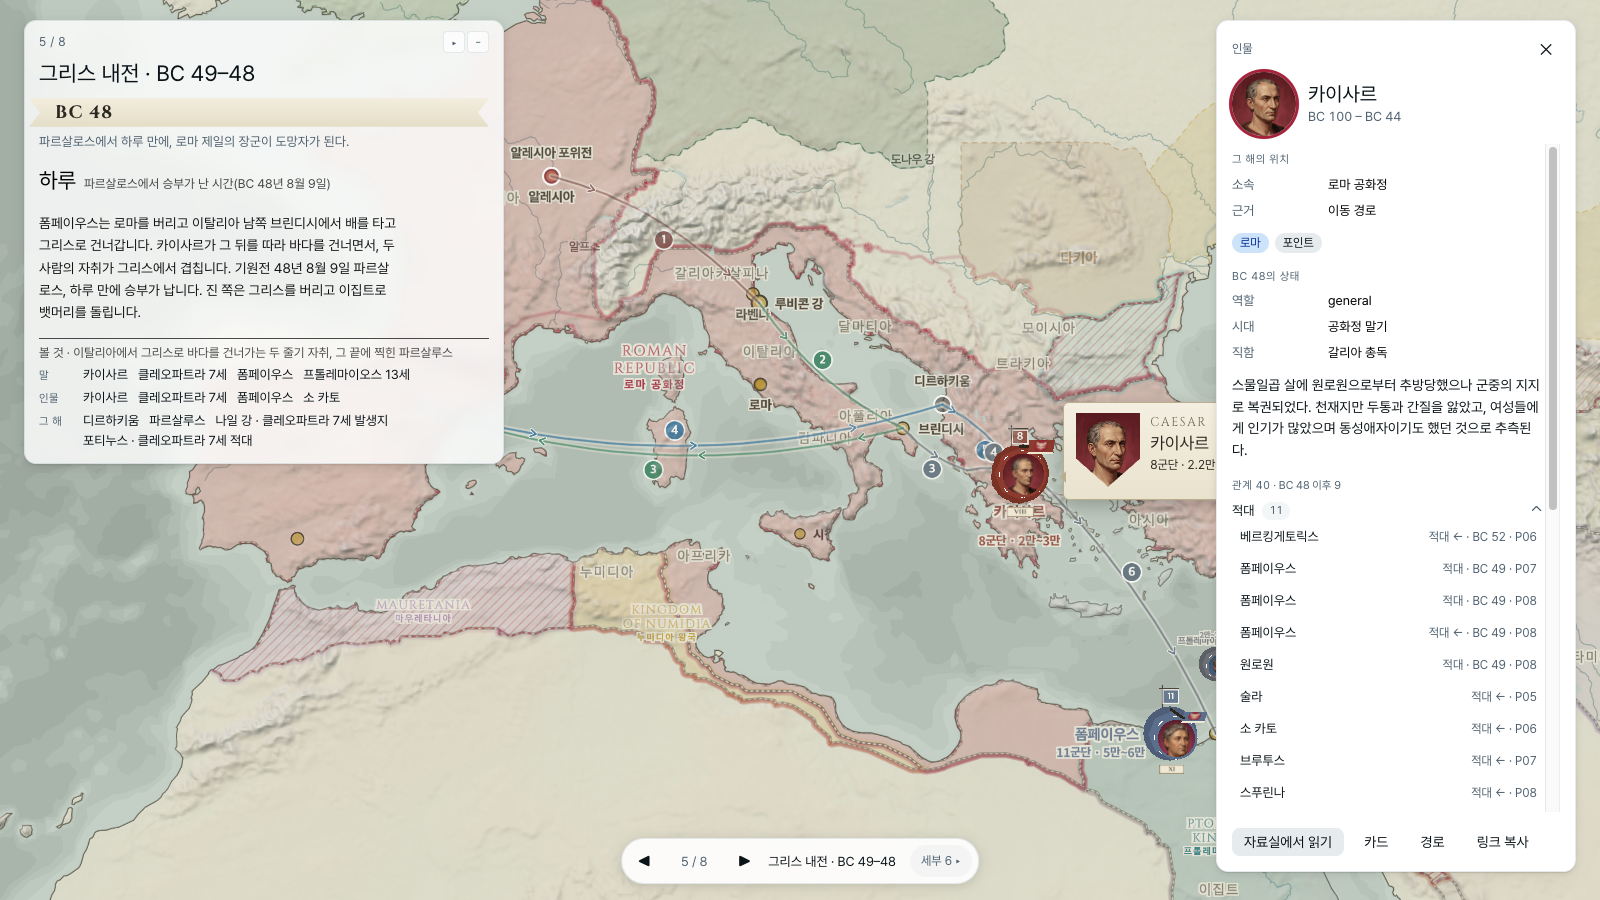
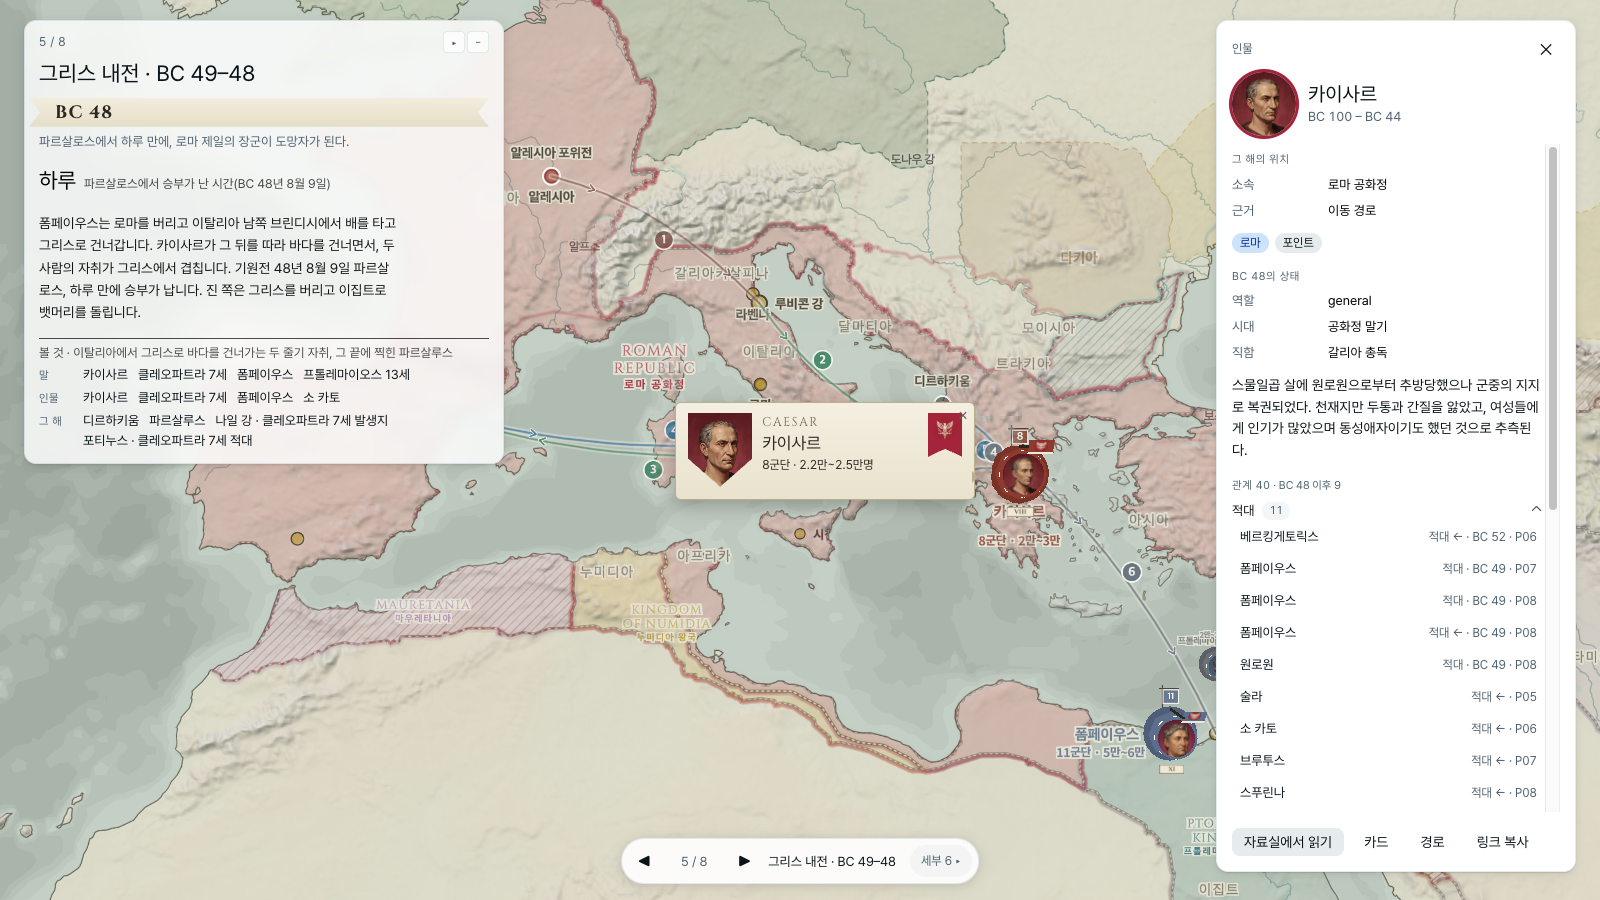
fix(배너 카드): 인스펙터가 오른쪽에 있으면 말 왼쪽으로 · docs: R51·§E 닫힘, 슬라이스 II 실행 기록

Changed region(s): [[0.4062, 0.4356, 0.625, 0.56], [0.6562, 0.4356, 0.7812, 0.56]]

diff --git a/src/app/BannerCard.tsx b/src/app/BannerCard.tsx
@@ -14,9 +14,12 @@ export function BannerCard({ map, at, name, latin, color, portrait, emblem, legi
     return () => { map.off('move', sync); map.off('resize', sync); };
   }, [map, at[0], at[1]]);
   if (!xy) return null;
+  // 오른쪽에 인스펙터(.shell-right)가 서 있으면 카드를 말 왼쪽에 둔다. 그리스 장면에서 카이사르 카드가 패널 밑에 깔렸다(2026-09-17)
+  const rightEdge = (() => { const el = document.querySelector('.shell-right') as HTMLElement | null; return el && el.offsetParent ? el.getBoundingClientRect().left : innerWidth; })();
+  const flip = xy.x + 44 + 300 > rightEdge - 8;
   const men = legion?.men_low != null ? `${fmt(legion.men_low)}${legion.men_high != null && legion.men_high !== legion.men_low ? `~${fmt(legion.men_high)}` : ''}명` : null;
   return (
-    <div className="banner-card" style={{ left: xy.x + 44, top: xy.y - 72, ['--faction' as string]: color }} role="dialog" aria-label={`${name} 배너`}>
+    <div className={`banner-card${flip ? ' is-left' : ''}`} style={{ left: flip ? xy.x - 44 - 300 : xy.x + 44, top: xy.y - 72, ['--faction' as string]: color }} role="dialog" aria-label={`${name} 배너`}>
       <div className="bc-shield">{portrait ? <img src={portrait} alt="" /> : <span />}</div>
       <div className="bc-plate">
         {latin && <div className="bc-latin">{latin}</div>}

diff --git a/src/app/shell.css b/src/app/shell.css
@@ -456,6 +456,7 @@ html[data-skin="campaign"] .shell-present-hud .ph-y, html[data-skin="oldmap"] .s
 .banner-card { position: absolute; z-index: 5; display: grid; grid-template-columns: 64px 1fr 34px; gap: 10px; align-items: start; width: 300px; padding: 10px 12px 12px;
   background: linear-gradient(#F4EFE1, #E9E2CD); border: 1px solid #B9AE8E; border-radius: 6px; box-shadow: 0 6px 18px rgb(0 0 0 / 0.22); pointer-events: auto; }
 .banner-card::before { content: ''; position: absolute; left: -10px; top: 68px; border: 6px solid transparent; border-right-color: #B9AE8E; }
+.banner-card.is-left::before { left: auto; right: -10px; border-right-color: transparent; border-left-color: #B9AE8E; }
 .bc-shield { width: 64px; height: 74px; background: var(--faction); clip-path: polygon(0 0, 100% 0, 100% 62%, 50% 100%, 0 62%); overflow: hidden; box-shadow: inset 0 0 0 3px rgb(255 255 255 / 0.55); }
 .bc-shield img { width: 100%; height: 100%; object-fit: cover; }
 .bc-plate { min-width: 0; display: grid; gap: 3px; }

diff --git a/docs/BACKLOG.md b/docs/BACKLOG.md
@@ -125,7 +125,7 @@ R39 목각은 볼트 3.7 조율, R41은 릴 스크린샷.
 | R48 | 입체 보기가 라이브에서 선다: DEM 두 층(ETOPO 2022 대륙 z0~8 · Copernicus GLO-30 인셋 z8~12)을 레포에 커밋 | ● | I. **2026-09-17 닫힘.** `scripts/bake-dem.py`(numpy+tifffile, 2 m 양자화·바다 0) 대륙 4,780장 144 MB + 인셋 일곱 35 MB, `test/terrain.test.ts` 상한 200 MB. 캡처 `docs/verify/overhaul/dem-alps-z6.png`. 크레딧 `public/assets/CREDITS.md` |
 | R49 | 대표님 녹취(PACK-CAESAR §14)에서 아직 없던 장면 둘: 「왜 제국인가: 평야」 · 「카르하이 BC 53」 | ● | I. **2026-09-17 닫힘.** `plains-empire`(로마의 확장 맨 앞, 곡창 7·척박 3 면이 z4.6에 뜬다. 평야 오버레이 유효기간을 전 기간으로 넓혀야 했다) · `carrhae-53`(선례, 카르라이 점 + 크라수스 말 「7군단 · 4만~5만」, 파르티아 보라). 캡처 `scene-plains-empire.png`·`scene-carrhae-53.png` |
 | R50 | 620px 이하 읽기 모드(하단 시트 하나, 핀은 번호만). 즉석 북마크는 R44 | ● | I. **2026-09-17 닫힘.** `MobileSheet.tsx`(설명·콜아웃·객체·재생 탭) + `useNarrow`. `scripts/look-mobile.py` 여섯 장면(발표 1·세부 3·전투 1·말판 1) 겹침 0·44px 미만 0·핀=목록. 캡처 `mobile-*.png`. 시트를 펼치면 장면 알약을 숨긴다 |
-| R51 | 시각 문법(대륙 축척): `campaign` 스킨 v2(국경 점선 사슬·연도 리본·세리프 자간 라벨·채색 음영) · 장군 배너 카드 · 장기말 프로시저럴 v2 · 군단 무리. 미시 축척 몫은 R54로 갔다 | ◐ | II. 스펙 `OVERHAUL-II.md` 2026-09-17 승인(Cinzel 두 줄 · 작은 말 무리+명패 · 카드는 선택에만 · 채도 유지). 채색 음영은 R56이 먼저 닫았다 |
+| R51 | 시각 문법(대륙 축척): `campaign` 스킨 v2(국경 점선 사슬·연도 리본·세리프 자간 라벨·채색 음영) · 장군 배너 카드 · 장기말 프로시저럴 v2 · 군단 무리. 미시 축척 몫은 R54로 갔다 | ● | II. **2026-09-17 밤 닫힘.** 스펙 `OVERHAUL-II.md`(River 승인: Cinzel 두 줄 · 작은 말 무리+명패 · 카드는 선택에만 · 채도 유지). 작전 스킨 두 겹 국경(`territory-casing`)·연도 리본(CSS)·Cinzel 두 줄 이름표(`build-glyphs.mjs` 136 kB) · 장기말 v2(깃발+문장 8종 `build-emblems.py`, 로마 숫자 명패, 4열 무리 z6+) · 배너 카드(`BannerCard.tsx`, 인스펙터가 오른쪽에 있으면 왼쪽으로). 캡처 `skin-v2-intro-med.png`·`token-v2-gaul-z7.png`·`banner-card-greece.png`. 초기 JS 396.7, token3d +1.3 kB. 채색 음영은 R56이 먼저 닫았다 |
 | R52 | 수심 색(`color-relief`, 깊을수록 짙게) · 위성 스킨(PD 래스터) | ○ | III |
 | R53 | 장면 의미체계(장면 ↔ 사건·시대 링크 층) · 프로젝트별 북마크 내보내기 | ○ | IV |
 | R55 | **모델링 시각화** `docs/MODELS.md`: AI와 사람이 같이 보는 Mermaid 도식 7, 데이터 모델은 zod에서 생성, 모델 바꾸는 커밋마다 갱신 (9차 후속 2 Z) | ○ | I |
@@ -301,7 +301,7 @@ rank 분포: 1급 9 · 2급 24 · 3급 187      ← 3단계라지만 실질 2단
 **덤으로 닫힌 것**: SPEC F8 「중심·줌이 URL에 없다」 ◐ → ●. 2D/3D 토글이 부팅 장면 각도로 돌아가던 것도 고쳤다
 (이제 마지막으로 세워 뒀던 각도로 돌아간다).
 
-**E가 드러낸 것 (미해결, River 판단)** — 스킨과 UI 테마가 어긋나면 타이틀이 안 읽힌다.
+**E가 드러낸 것 (2026-09-17 닫힘)** — `chromeTone(skin)`이 크롬 글자색을 스킨에 묶은 뒤(②후광 방식) `scripts/look-skins.py`로 다섯 스킨 × 두 테마를 재니 연도 글자 명암비 10.2~13.2(WCAG 4.5 이상)였다. 아래는 당시 기록. 스킨과 UI 테마가 어긋나면 타이틀이 안 읽힌다.
 `skin=oldmap`(밝은 양피지) + 시스템 테마 dark이면 좌상단 「크로노아틀라스 · 온톨로지 지도」·연도·각주 줄이
 밝은 지도 위 밝은 글자가 된다. 원인은 DESIGN P12(「지도 스킨은 웹 UI 크롬을 안 건드린다」)와
 떠 있는 카드 레이아웃(`.shell-title`이 `position: absolute`로 캔버스 위에 얹힌다)의 충돌이다.

diff --git a/docs/00-START.md b/docs/00-START.md
@@ -108,7 +108,7 @@ flowchart LR
 
 **여기에 라운드 표를 다시 그리지 않는다.** 상태를 두 곳에 적으면 한쪽이 낡는다. 실제로 `HANDOFF-GPT.md` §5가 그렇게 하루 뒤처졌고 2026-09-16에 걷어냈다.
 
-방향만 적는다. **2026-09-17부터 전면 개선 슬라이스 I(`OVERHAUL.md`)를 집행 중이다.** P-Z(도식 초안)·P-A(정본 마이그레이션·범위 확대)·P-B(영역 마감)·P0(번들)·P1(미시지도 레지스트리)·P2(DEM·토지피복)·P3(미시지도 셋)·P4(전투 재생)·P5(장면 둘)·P6(즉석 북마크)·P7(모바일 읽기 모드)·P-Z(도식 생성기)까지 커밋(**미푸시**). 슬라이스 I에서 남은 것은 둘: 초기 JS 410 → 400(R46)과 R56 잔여(스킨 고도색·인셋 하천·`data/insets.json`). 그다음은 슬라이스 II(`OVERHAUL.md` §2). 이 환경은 egress가 열려 있어 재베이크·DEM을 에이전트가 직접 돌린다.
+방향만 적는다. **2026-09-17부터 전면 개선 슬라이스 I(`OVERHAUL.md`)를 집행 중이다.** P-Z(도식 초안)·P-A(정본 마이그레이션·범위 확대)·P-B(영역 마감)·P0(번들)·P1(미시지도 레지스트리)·P2(DEM·토지피복)·P3(미시지도 셋)·P4(전투 재생)·P5(장면 둘)·P6(즉석 북마크)·P7(모바일 읽기 모드)·P-Z(도식 생성기)까지 커밋(**미푸시**). 슬라이스 I은 2026-09-17 밤에 전부 닫혔고(R46 396 kB, R56 고도색·insets.json), **슬라이스 II(시각 문법, R51)도 같은 밤에 닫혔다**(`OVERHAUL-II.md`, River 승인 넷). 다음은 슬라이스 III(데이터 기반: R32·R34·R52, `OVERHAUL.md` §2·§4)이고 스펙은 아직 없다. 이 환경은 egress가 열려 있어 재베이크·DEM을 에이전트가 직접 돌린다.
 
 - 요구 항목별 상태와 증거: [`BACKLOG.md`](BACKLOG.md) R번호 표(R44~R57이 슬라이스 I) · 계획별 실행 기록: `plans/2026-09-17-overhaul-I-*.md` 머리의 인용 블록
 - 환경 함정과 지금 집을 수 있는 것: [`HANDOFF.md`](HANDOFF.md) §1·§5·§6

diff --git a/docs/HANDOFF.md b/docs/HANDOFF.md
@@ -11,7 +11,7 @@
 
 ## 1. 지금 상태
 
-> **2026-09-17 갱신(슬라이스 I).** 아래 수치 여럿이 낡았다: vitest **262**, 초기 JS **410.4 kB(gzip -9, 게이트 450, 라체트 → 400)**, `terrain/meta.json` 404는 **더 이상 나지 않는다**(DEM 179 MB가 레포에 있다, `AGENTS.md` 「기하 3D 지형」). 미시지도는 `data/micromaps/` 일곱 장, 말판은 v2(전투 재생). 상태의 정본은 `BACKLOG.md` R번호와 `plans/2026-09-17-overhaul-I-*.md` 실행 기록이다. 커밋 넷+는 **미푸시**.
+> **2026-09-17 갱신(슬라이스 I).** 아래 수치 여럿이 낡았다: vitest **263**, 초기 JS **396.7 kB(gzip -9, 게이트 400)**, `terrain/meta.json` 404는 **더 이상 나지 않는다**(DEM 179 MB가 레포에 있다, `AGENTS.md` 「기하 3D 지형」). 미시지도는 `data/micromaps/` 일곱 장, 말판은 v2(전투 재생). 상태의 정본은 `BACKLOG.md` R번호와 `plans/2026-09-17-overhaul-I-*.md` 실행 기록이다. 커밋 넷+는 **미푸시**.
 
 - **라이브: https://snas-lifebook.github.io/chronoatlas/** (2026-09-10 배포). 원격 `origin` = `snas-lifebook/chronoatlas`(public).
   push하면 Actions가 `npm ci` → `npm run build`(= gen·lint·typecheck·vitest·vite) → Pages. **빌드가 깨지면 배포가 안 된다.**

diff --git a/docs/plans/2026-09-17-overhaul-II-visual.md b/docs/plans/2026-09-17-overhaul-II-visual.md
@@ -6,6 +6,8 @@
 
 **Architecture:** 스킨 조건은 전부 `engine.ts activeSkin` 한 곳에서 갈린다(addData가 스킨 전환 때 다시 돈다). 글리프·문장은 빌드타임 산출물(레포 커밋). 말은 `token3d.ts` 프로시저럴 한 파일. 카드는 콜아웃과 같은 DOM 방식의 지연 청크.
 
+> **2026-09-17 밤 실행 기록.** 전부 됨. 계획과 다른 점: 깃발은 탑다운 시점에서 면이 보이게 **뒤로 52도 눕혔다**(세워 두면 위에서 선 하나다). 명패는 말 앞에 눕힌 판(로마 숫자, 캔버스 텍스처). 케이싱 색은 polityColor 곱이 아니라 스킨 `coast` 잉크 0.55(표현식에 색 산술이 없다). 이름표 자간은 두 줄 전체 0.12. 배너 카드는 인스펙터가 오른쪽에 서 있으면 말 왼쪽으로 뒤집는다(그리스 장면에서 패널 밑에 깔렸다). 볼트 문장 파일명이 NFD라 NFC 정규화 없이는 카르타고가 빠졌다. `look-skins.py` 명암비 10.2~13.2. MODELS.md 모듈 지도에 token3d·BannerCard는 **아직 안 넣었다**(손 도식, 다음 세션).
+
 ## Global Constraints
 
 - 초기 JS ≤ 400 kB gz(게이트). token3d 청크 +10 kB 이내. 글리프·문장은 번들이 아니다.
